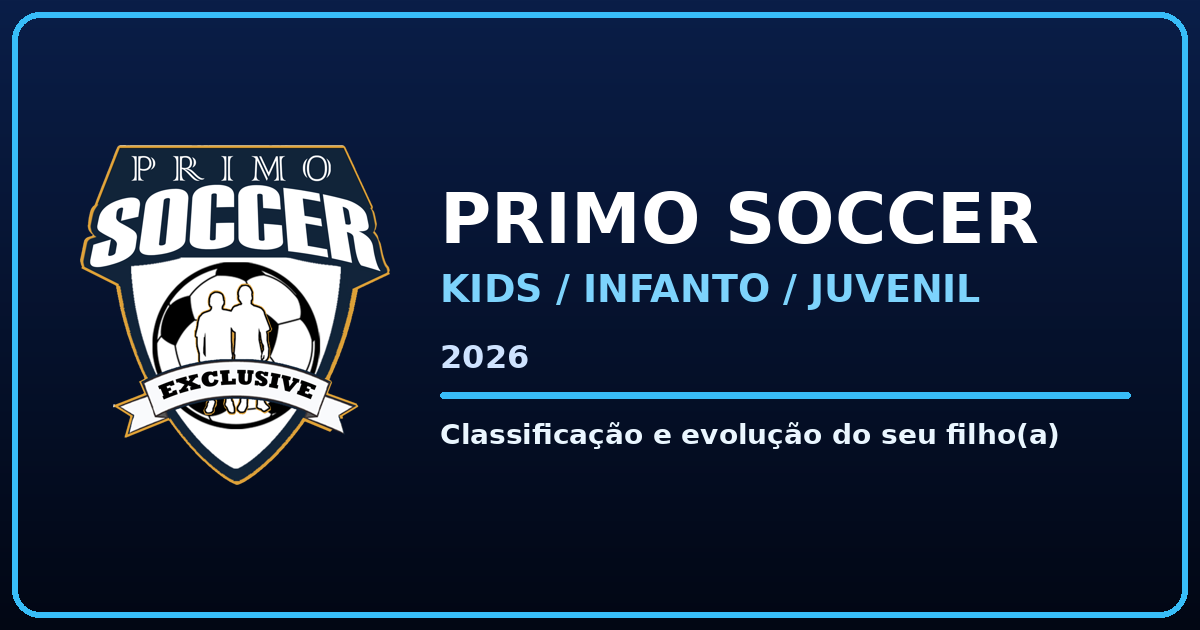
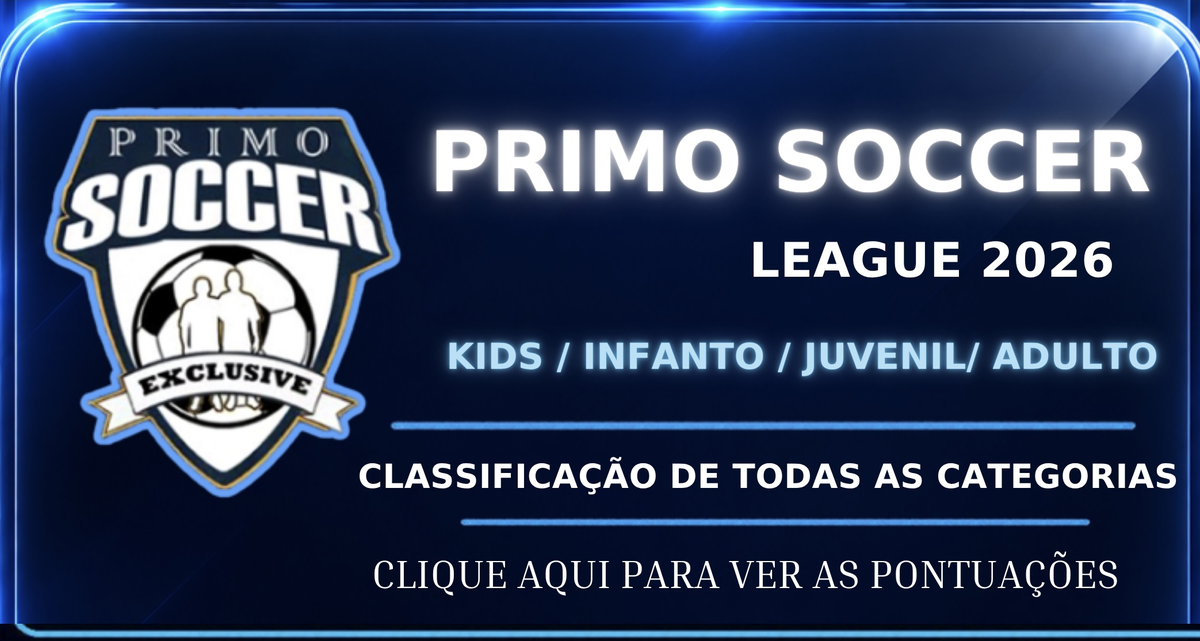
Add files via upload

diff --git a/index.html b/index.html
@@ -3,20 +3,28 @@
 <head>
 <meta charset="utf-8">
 <meta name="viewport" content="width=device-width,initial-scale=1,maximum-scale=1,user-scalable=no">
-<title>PRIMO SOCCER KIDS / INFANTO / JUVENIL 2026</title>
+<title>PRIMO SOCCER LEAGUE 2026</title>
+<meta name="description" content="Acompanhe a classificação geral e as regras de todas as categorias !">
 <meta property="og:type" content="website">
-<meta property="og:site_name" content="Primo Soccer Kids">
-<meta property="og:title" content="Primo Soccer Kids 2026">
-<meta property="og:description" content="Acompanhe a classificação e a evolução do seu filho(a) na disputa.">
-<meta property="og:image" content="https://primo-soccer-2026-kids.vercel.app/link-preview.png?v=2">
+<meta property="og:site_name" content="Primo Soccer League 2026">
+<meta property="og:title" content="PRIMO SOCCER LEAGUE 2026">
+<meta property="og:description" content="Acompanhe a classificação geral e as regras de todas as categorias !">
+<meta property="og:image" content="https://primo-soccer-2026-kids.vercel.app/link-preview.png?v=3">
 <meta property="og:image:width" content="1200">
-<meta property="og:image:height" content="630">
+<meta property="og:image:height" content="641">
 <meta property="og:url" content="https://primo-soccer-2026-kids.vercel.app/">
 <meta name="twitter:card" content="summary_large_image">
-<meta name="twitter:title" content="Primo Soccer Kids 2026">
-<meta name="twitter:description" content="Acompanhe a classificação e a evolução do seu filho(a).">
-<meta name="twitter:image" content="https://primo-soccer-2026-kids.vercel.app/link-preview.png?v=2">
-<link rel="manifest" href="manifest.json">
+<meta name="twitter:title" content="PRIMO SOCCER LEAGUE 2026">
+<meta name="twitter:description" content="Acompanhe a classificação geral e as regras de todas as categorias !">
+<meta name="twitter:image" content="https://primo-soccer-2026-kids.vercel.app/link-preview.png?v=3">
+<meta name="apple-mobile-web-app-capable" content="yes">
+<meta name="mobile-web-app-capable" content="yes">
+<meta name="apple-mobile-web-app-title" content="PrimoSoccer26">
+<meta name="application-name" content="PrimoSoccer26">
+<link rel="apple-touch-icon" href="apple-touch-icon.png?v=2">
+<link rel="apple-touch-icon" sizes="180x180" href="apple-touch-icon.png?v=2">
+<link rel="icon" type="image/png" sizes="192x192" href="icon-192.png?v=2">
+<link rel="manifest" href="manifest.json?v=2">
 <link rel="stylesheet" href="style.css">
 <style>
 /* ===== V77 - MATA-MATA no Link dos Pais (categoria Adulto) ===== */
@@ -44,6 +52,51 @@
   .mmMatch{gap:4px}
   .mmSide{padding:7px 8px;gap:6px}
 }
+
+/* ===== V79 - PAINEL DE ABERTURA (igual ao modelo) ===== */
+@font-face{font-family:"PSOswald";src:url("oswald-700.woff2?v=1") format("woff2");font-weight:700;font-display:swap}
+@font-face{font-family:"PSMontX";src:url("montserrat-800.woff2?v=1") format("woff2");font-weight:800;font-display:swap}
+/* estilos gerais dos textos do topo (valem também no link dos pais) */
+[data-app-title] .htMain,[data-app-title] .htLeague,#appHero [data-app-title] .htCats,.parentHeader [data-app-title] .htCats{display:block!important;font-family:Arial,Helvetica,sans-serif!important;text-transform:uppercase!important;line-height:1.05!important}
+#appHero [data-app-title] .htMain,.parentHeader [data-app-title] .htMain{color:#fff!important;font-weight:700!important}
+#appHero [data-app-title] .htLeague,.parentHeader [data-app-title] .htLeague{color:#fff!important;font-weight:700!important}
+#appHero [data-app-title] .htCats,.parentHeader [data-app-title] .htCats{color:#b2f1ff!important;font-weight:700!important;text-shadow:0 0 8px rgba(56,189,248,.95),0 0 16px rgba(56,189,248,.55)!important}
+.officialMonth{display:flex!important;align-items:center!important;justify-content:center!important;gap:.35em}
+.officialMonth .heroMes{font-family:"PSOswald","Oswald",Impact,"Arial Narrow",sans-serif!important;font-weight:700!important;color:#3fc3f6!important;letter-spacing:0;word-spacing:.12em;text-shadow:0 0 10px rgba(63,195,246,.25)!important}
+.officialMonth .heroMes #heroMonth{color:inherit!important}
+.heroChev{display:inline-block;line-height:0;filter:drop-shadow(0 0 1.5px #ffa600) drop-shadow(0 0 4px rgba(255,160,0,.9)) drop-shadow(0 0 8px rgba(255,140,0,.45))}
+.heroChev svg{height:.62em;width:auto;display:block}
+.heroChevR svg{transform:scaleX(-1)}
+
+/* ===== tela do app (admin): posições exatas, proporcionais à largura ===== */
+body:not(.parentMode) #appHero{--u:calc(min(100vw,520px) / 100);position:relative!important;display:block!important;min-height:0!important;height:calc(var(--u) * 151)!important;padding:0!important;background-size:cover!important;background-position:center center!important}
+body:not(.parentMode) #appHero .officialHeroContent{position:absolute!important;top:0!important;left:50%!important;transform:translateX(-50%)!important;width:calc(var(--u) * 100)!important;height:100%!important;min-height:0!important;padding:0!important;display:block!important}
+body:not(.parentMode) #appHero .officialLogo{position:absolute!important;left:50%!important;transform:translateX(-50%)!important;top:calc(var(--u) * 4.13)!important;width:calc(var(--u) * 50.16)!important;height:calc(var(--u) * 50.16)!important;max-width:none!important;object-fit:contain!important;margin:0!important}
+body:not(.parentMode) #appHero .officialTitle{position:static!important;display:block!important}
+body:not(.parentMode) #appHero .officialTitle span{position:absolute!important;margin:0!important;white-space:nowrap!important;line-height:1!important}
+body:not(.parentMode) #appHero .htMain{left:0!important;right:0!important;text-align:center!important;padding-left:calc(var(--u) * .8)!important;top:calc(var(--u) * 57.5)!important;font-size:calc(var(--u) * 10.74)!important;letter-spacing:calc(var(--u) * .05)!important;text-shadow:0 2px 10px rgba(0,0,0,.85)!important}
+body:not(.parentMode) #appHero .htLeague{right:calc(var(--u) * 6.3)!important;top:calc(var(--u) * 68.7)!important;font-size:calc(var(--u) * 6.35)!important;letter-spacing:calc(var(--u) * .12)!important;text-shadow:0 2px 8px rgba(0,0,0,.85)!important}
+body:not(.parentMode) #appHero .htCats{left:0!important;right:0!important;text-align:center!important;padding-left:calc(var(--u) * 2)!important;top:calc(var(--u) * 76.7)!important;font-size:calc(var(--u) * 4.5)!important;letter-spacing:calc(var(--u) * .1)!important}
+body:not(.parentMode) #appHero .officialMonth{position:absolute!important;left:0!important;top:0!important;width:100%!important;height:100%!important;margin:0!important;display:block!important;font-size:calc(var(--u) * 8.57)!important;text-shadow:none!important}
+body:not(.parentMode) #appHero .heroMes{position:absolute!important;left:calc(var(--u) * 23.64)!important;text-align:left!important;top:calc(var(--u) * 86.34)!important;line-height:1!important;white-space:nowrap!important}
+body:not(.parentMode) #appHero .heroChev{position:absolute!important;top:calc(var(--u) * 88.6)!important;width:calc(var(--u) * 15.3)!important}
+body:not(.parentMode) #appHero .heroChev svg{width:100%!important;height:auto!important}
+body:not(.parentMode) #appHero .heroChevL{left:calc(var(--u) * 4.56)!important}
+body:not(.parentMode) #appHero .heroChevR{left:calc(var(--u) * 81.2)!important}
+body:not(.parentMode) #appHero #monthSelect{position:absolute!important;left:50%!important;right:auto!important;bottom:auto!important;transform:translateX(-50%)!important;margin-left:calc(var(--u) * 1.1)!important;top:calc(var(--u) * 130)!important;width:calc(var(--u) * 82)!important;height:calc(var(--u) * 11.8)!important;min-height:0!important;border-radius:calc(var(--u) * 5.4)!important;border:calc(var(--u) * .75) solid rgba(84,178,214,.95)!important;background:rgba(5,18,42,.92)!important;color:#fff!important;font-family:Arial,Helvetica,sans-serif!important;font-weight:700!important;font-size:calc(var(--u) * 6.25)!important;letter-spacing:calc(var(--u) * .15)!important;padding:0 calc(var(--u) * 3.4)!important;text-align:left!important;text-align-last:left!important;box-shadow:0 0 calc(var(--u) * 3) rgba(0,0,0,.6)!important}
+
+.heroSlogan{display:none}
+body:not(.parentMode) #appHero .heroSlogan{display:block!important;position:absolute;left:0;top:0;width:100%;height:100%;pointer-events:none}
+body:not(.parentMode) #appHero .heroSlogan span{position:absolute;left:0;right:0;text-align:center;white-space:nowrap;line-height:1;font-family:"PSMontX","Montserrat","Arial Black",sans-serif;font-weight:800;font-size:calc(var(--u) * 7.43);color:#fff;text-shadow:0 0 calc(var(--u) * 1) rgba(255,255,255,.85),0 0 calc(var(--u) * 2.6) rgba(255,255,255,.45),0 2px 6px rgba(0,0,0,.6)}
+body:not(.parentMode) #appHero .heroSlogan .hs1{top:calc(var(--u) * 105.57)}
+body:not(.parentMode) #appHero .heroSlogan .hs2{top:calc(var(--u) * 112.71)}
+/* ===== link dos pais: mesmos textos, layout em fluxo ===== */
+body.parentMode #appHero .htMain{font-size:clamp(30px,9vw,54px)!important}
+body.parentMode #appHero .htLeague{font-size:clamp(18px,5.4vw,32px)!important;text-align:right!important;padding-right:4vw}
+body.parentMode #appHero .htCats{font-size:clamp(13px,3.9vw,22px)!important;margin-top:6px!important}
+body.parentMode #appHero .officialMonth{font-size:clamp(24px,7.4vw,46px)!important;margin-top:14px!important;white-space:nowrap!important;flex-wrap:nowrap!important}
+body.parentMode #appHero .heroMes{white-space:nowrap!important}
+body.parentMode #appHero .heroChev svg{height:.55em}
 </style>
 </head>
 <body>
@@ -64,9 +117,10 @@
 <header class="hero officialHero" id="appHero">
   <div class="officialHeroShade"></div>
   <div class="officialHeroContent">
-    <img src="primo-logo.png" class="officialLogo" alt="Primo Soccer">
-    <div class="officialTitle" data-app-title><span>PRIMO SOCCER</span><span>KIDS / INFANTO / JUVENIL</span><span>2026</span></div>
-    <div class="officialMonth">MÊS: <span id="heroMonth">MAIO</span></div>
+    <img src="primo-logo-blue.png?v=1" class="officialLogo" alt="Primo Soccer">
+    <div class="officialTitle" data-app-title><span class="htMain">PRIMO SOCCER</span><span class="htLeague">LEAGUE 2026</span><span class="htCats">KIDS / INFANTO / JUVENIL / ADULTO</span></div>
+    <div class="officialMonth"><span class="heroChev heroChevL"><svg viewBox="40 42 449 178" aria-hidden="true"><g fill="none" stroke="#fff3d1" stroke-width="6.5" stroke-linejoin="miter"><polygon points="45,47 108,47 172,131 108,215 45,215 108,131"/><polygon points="180,47 285,47 347,131 285,215 180,215 243,131"/><polygon points="357,47 420,47 484,131 420,215 357,215 420,131"/></g></svg></span><span class="heroMes">MÊS: <span id="heroMonth">MAIO</span></span><span class="heroChev heroChevR"><svg viewBox="40 42 449 178" aria-hidden="true"><g fill="none" stroke="#fff3d1" stroke-width="6.5" stroke-linejoin="miter"><polygon points="45,47 108,47 172,131 108,215 45,215 108,131"/><polygon points="180,47 285,47 347,131 285,215 180,215 243,131"/><polygon points="357,47 420,47 484,131 420,215 357,215 420,131"/></g></svg></span></div>
+    <div class="heroSlogan" aria-hidden="true"><span class="hs1">TREINAMENTO</span><span class="hs2">ALÉM DO ESPORTE</span></div>
     <div class="parentHeroMonthBox" aria-label="Selecionar mês da disputa no link dos pais">
       <select id="parentHeroMonthSelect" onchange="setParentMonth(this.value)"></select>
     </div>
@@ -334,8 +388,8 @@
 </section>
 </main>
 
-<script src="supabase-config.js?v=78"></script>
-<script src="script.js?v=78"></script>
+<script src="supabase-config.js?v=79"></script>
+<script src="script.js?v=79"></script>
 <div id="cropOverlay" class="cropOverlay hidden">
   <div class="cropCard">
     <h3>Ajustar foto</h3>

diff --git a/script.js b/script.js
@@ -3,7 +3,7 @@ function normalizeSupabaseUrl(u){u=String(u||"").trim(); if(!u)return ""; if(!/^
 const SUPABASE_URL=normalizeSupabaseUrl(DB_OVERRIDE.url||window.PRIMO_SUPABASE_CONFIG?.url);
 const SUPABASE_KEY=String(DB_OVERRIDE.anonKey||window.PRIMO_SUPABASE_CONFIG?.anonKey||"").trim();
 const APP_ID=String(DB_OVERRIDE.appId||window.PRIMO_SUPABASE_CONFIG?.appId||"primo_soccer_kids_league_2026").trim();
-const APP_VERSION="78";
+const APP_VERSION="79";
 const STEP_POINTS=5; // quantos pontos cada toque no + / − adiciona no P/D e P/E
 const MONTHS=["JANEIRO","FEVEREIRO","MARÇO","ABRIL","MAIO","JUNHO","JULHO","AGOSTO","SETEMBRO","OUTUBRO","NOVEMBRO","DEZEMBRO"];
 const CATEGORIES=[["Futbaby 2-3 Anos","futbaby23"],["Futbaby 4-5 Anos","futbaby45"],["Sub 6-7-8 anos","sub678"],["Sub 8-9-10 anos","sub8910"],["Sub 11-12-13-14 anos","sub1114"],["Adulto","adulto"]];
@@ -12,8 +12,8 @@ function bonusFieldsFor(cat){ return cat==="Adulto" ? ["uniforme"] : ["uniforme"
 function bonusLabelsFor(cat){ return cat==="Adulto" ? [["uniforme","Uniforme"]] : [["uniforme","Uniforme"],["fruta","Fruta"],["comportamento","Comport."]]; }
 const DEFAULT_SCHEDULES={"Futbaby 2-3 Anos":["Segunda 11:00 • Futbaby 2-3 anos","Quinta 17:30 • Futbaby 2-3 anos (Capi)","Sexta 17:30 • Futbaby 2-3 anos (Capi)","Sábado 09:30 • Futbaby 2-3 anos (Capi)","Sábado 11:30 • Futbaby 2-3 anos (Capi)"],"Futbaby 4-5 Anos":["Segunda 10:00 • Futbaby 4-5 anos","Terça 10:00 • Futbaby 4-5 anos","Quarta 10:00 • Futbaby 4-5 anos","Quarta 17:30 • Futbaby 4-5 anos","Sexta 09:15 • Futbaby 4-5 anos","Sábado 10:30 • Futbaby 4-5 anos (Capi)"],"Sub 6-7-8 anos":["Terça 10:45 • Sub 6-7-8 anos","Quinta 10:45 • Sub 6-7-8","Sexta 19:10 • Sub 6-7-8 (Capi)"],"Sub 8-9-10 anos":["Segunda 09:15 • Sub 8-9-10 anos","Quarta 09:15 • Sub 8-9-10 anos","Sexta 18:15 • Sub 8-9-10 (Capi)"],"Sub 11-12-13-14 anos":["Terça 15:30 • Sub 11-12-13 anos","Quarta 15:30 • Sub 11-12-13-14"],"Adulto":["Terça 11:30 • Adulto","Quinta 11:30 • Adulto","Terça 18:30 • Adulto","Quinta 18:30 • Adulto","Segunda 19:30 • Adulto","Terça 19:30 • Adulto","Quarta 19:30 • Adulto","Quinta 19:30 • Adulto"]};
 const STORAGE_KEY="primo_soccer_2026_kids_state_v3",MONTH_KEY="primo_soccer_2026_kids_month_v3";
-const APP_TITLE_HTML = "<span>PRIMO SOCCER</span><span>KIDS / INFANTO / JUVENIL</span><span>2026</span>";
-const APP_TITLE_TEXT = "PRIMO SOCCER KIDS / INFANTO / JUVENIL 2026";
+const APP_TITLE_HTML = "<span class=\"htMain\">PRIMO SOCCER</span><span class=\"htLeague\">LEAGUE 2026</span><span class=\"htCats\">KIDS / INFANTO / JUVENIL / ADULTO</span>";
+const APP_TITLE_TEXT = "PRIMO SOCCER LEAGUE 2026";
 const DEFAULT_RULES = `🏆 Regras do campeonato
 • Pontuação por treino: P/D + P/E + bônus.
 • Bônus: uniforme, fruta e comportamento.
